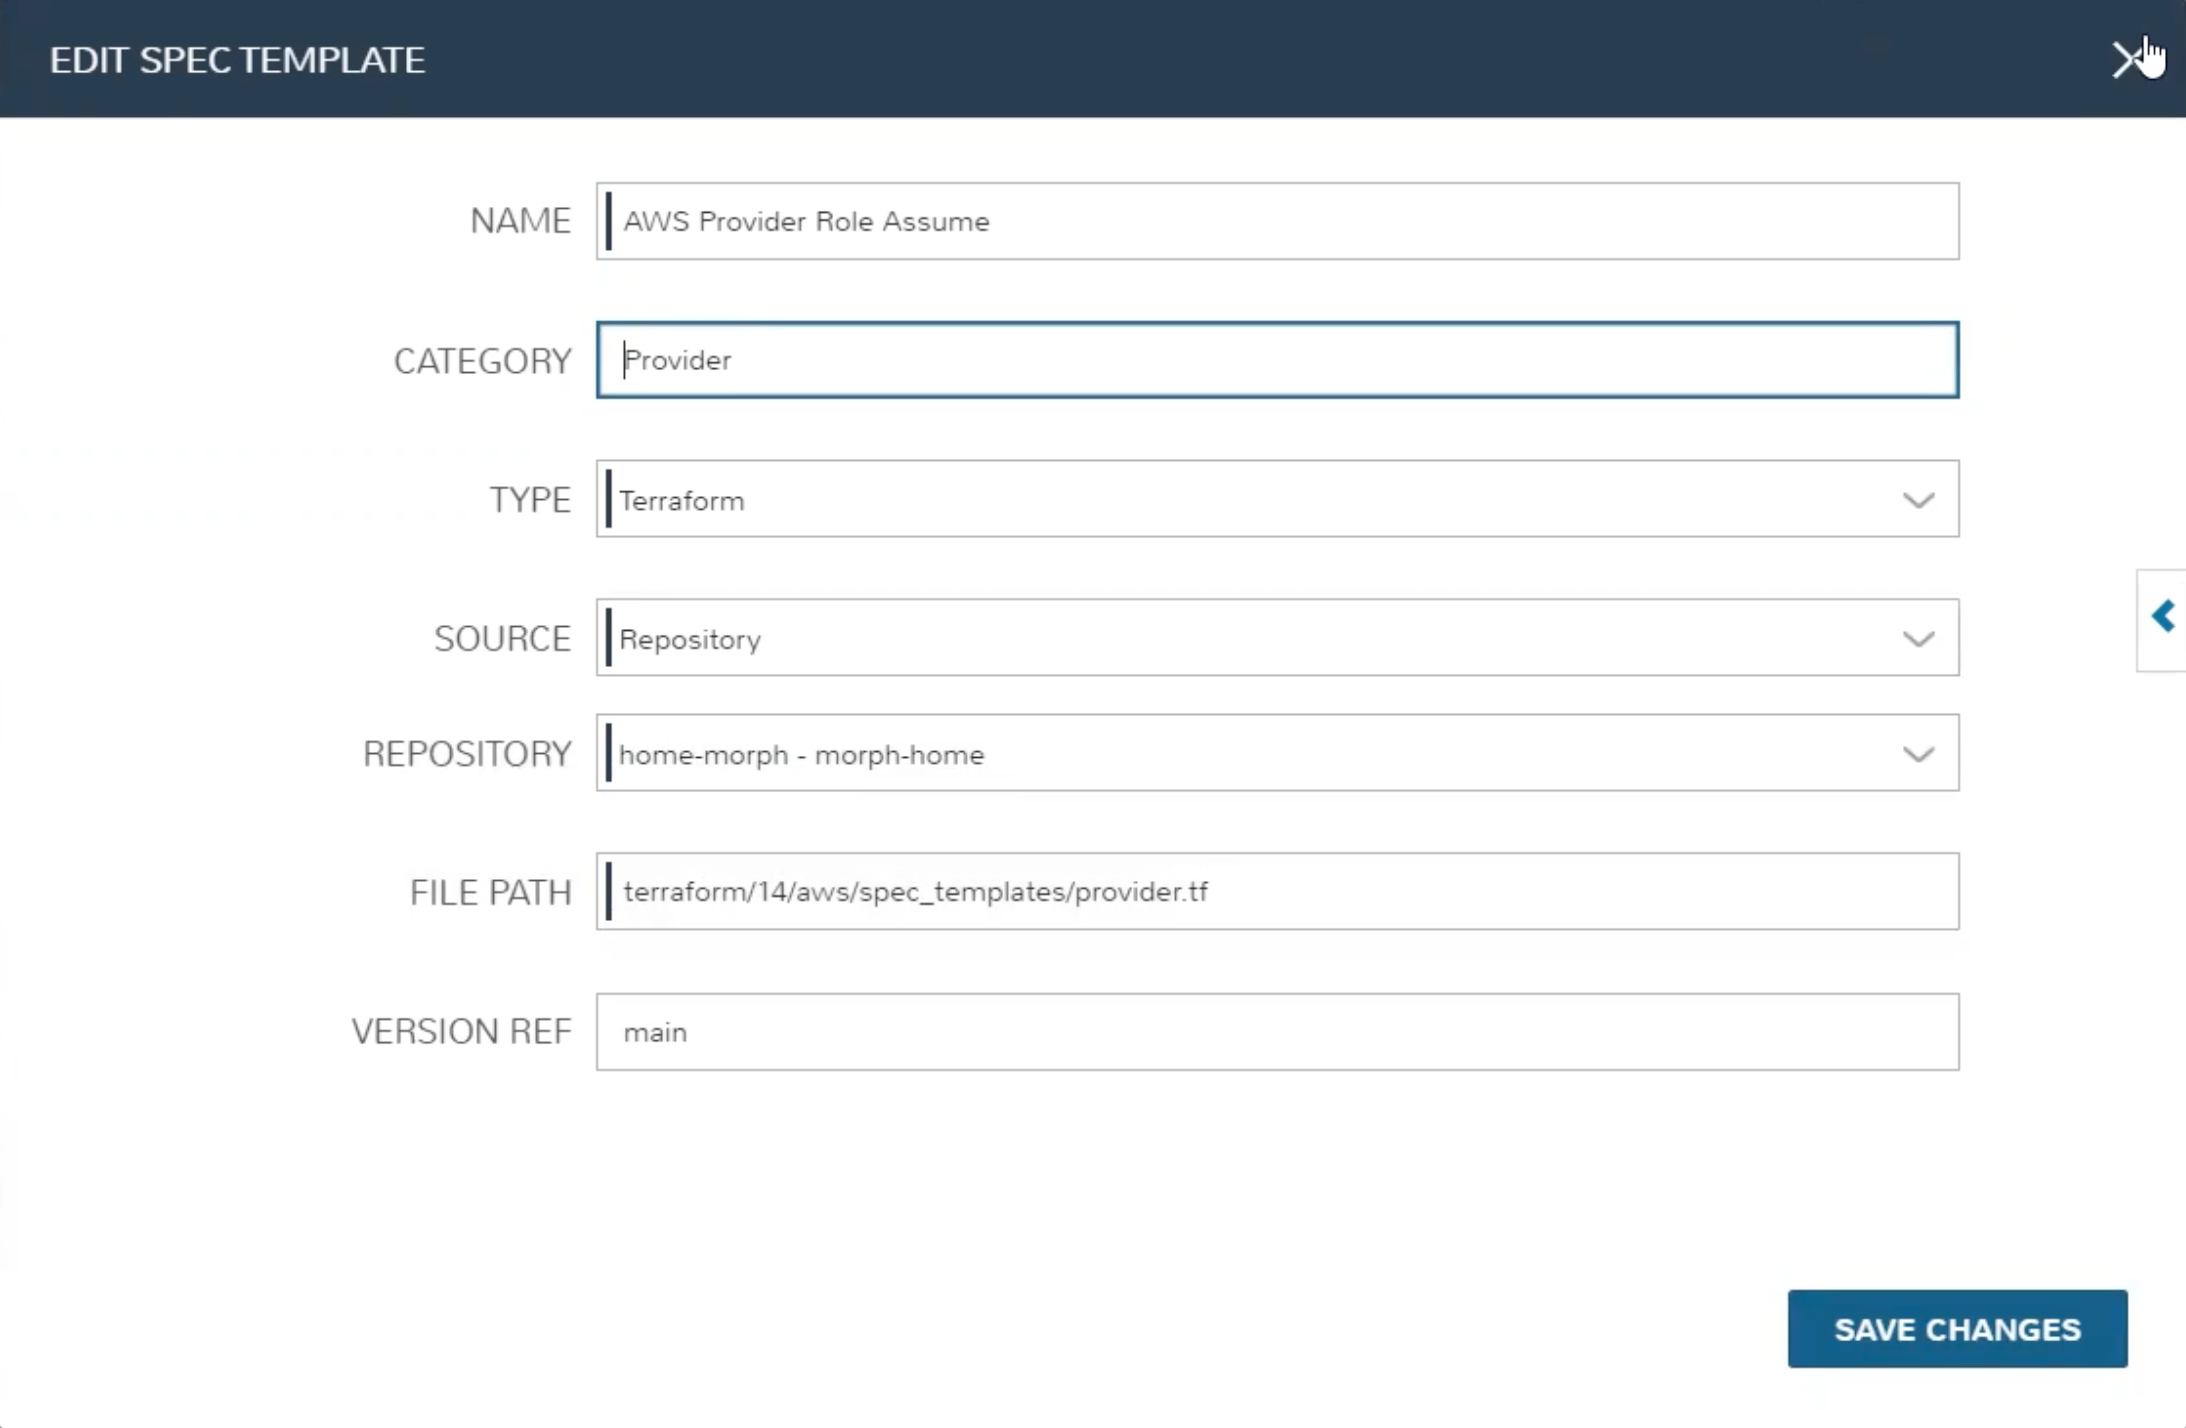
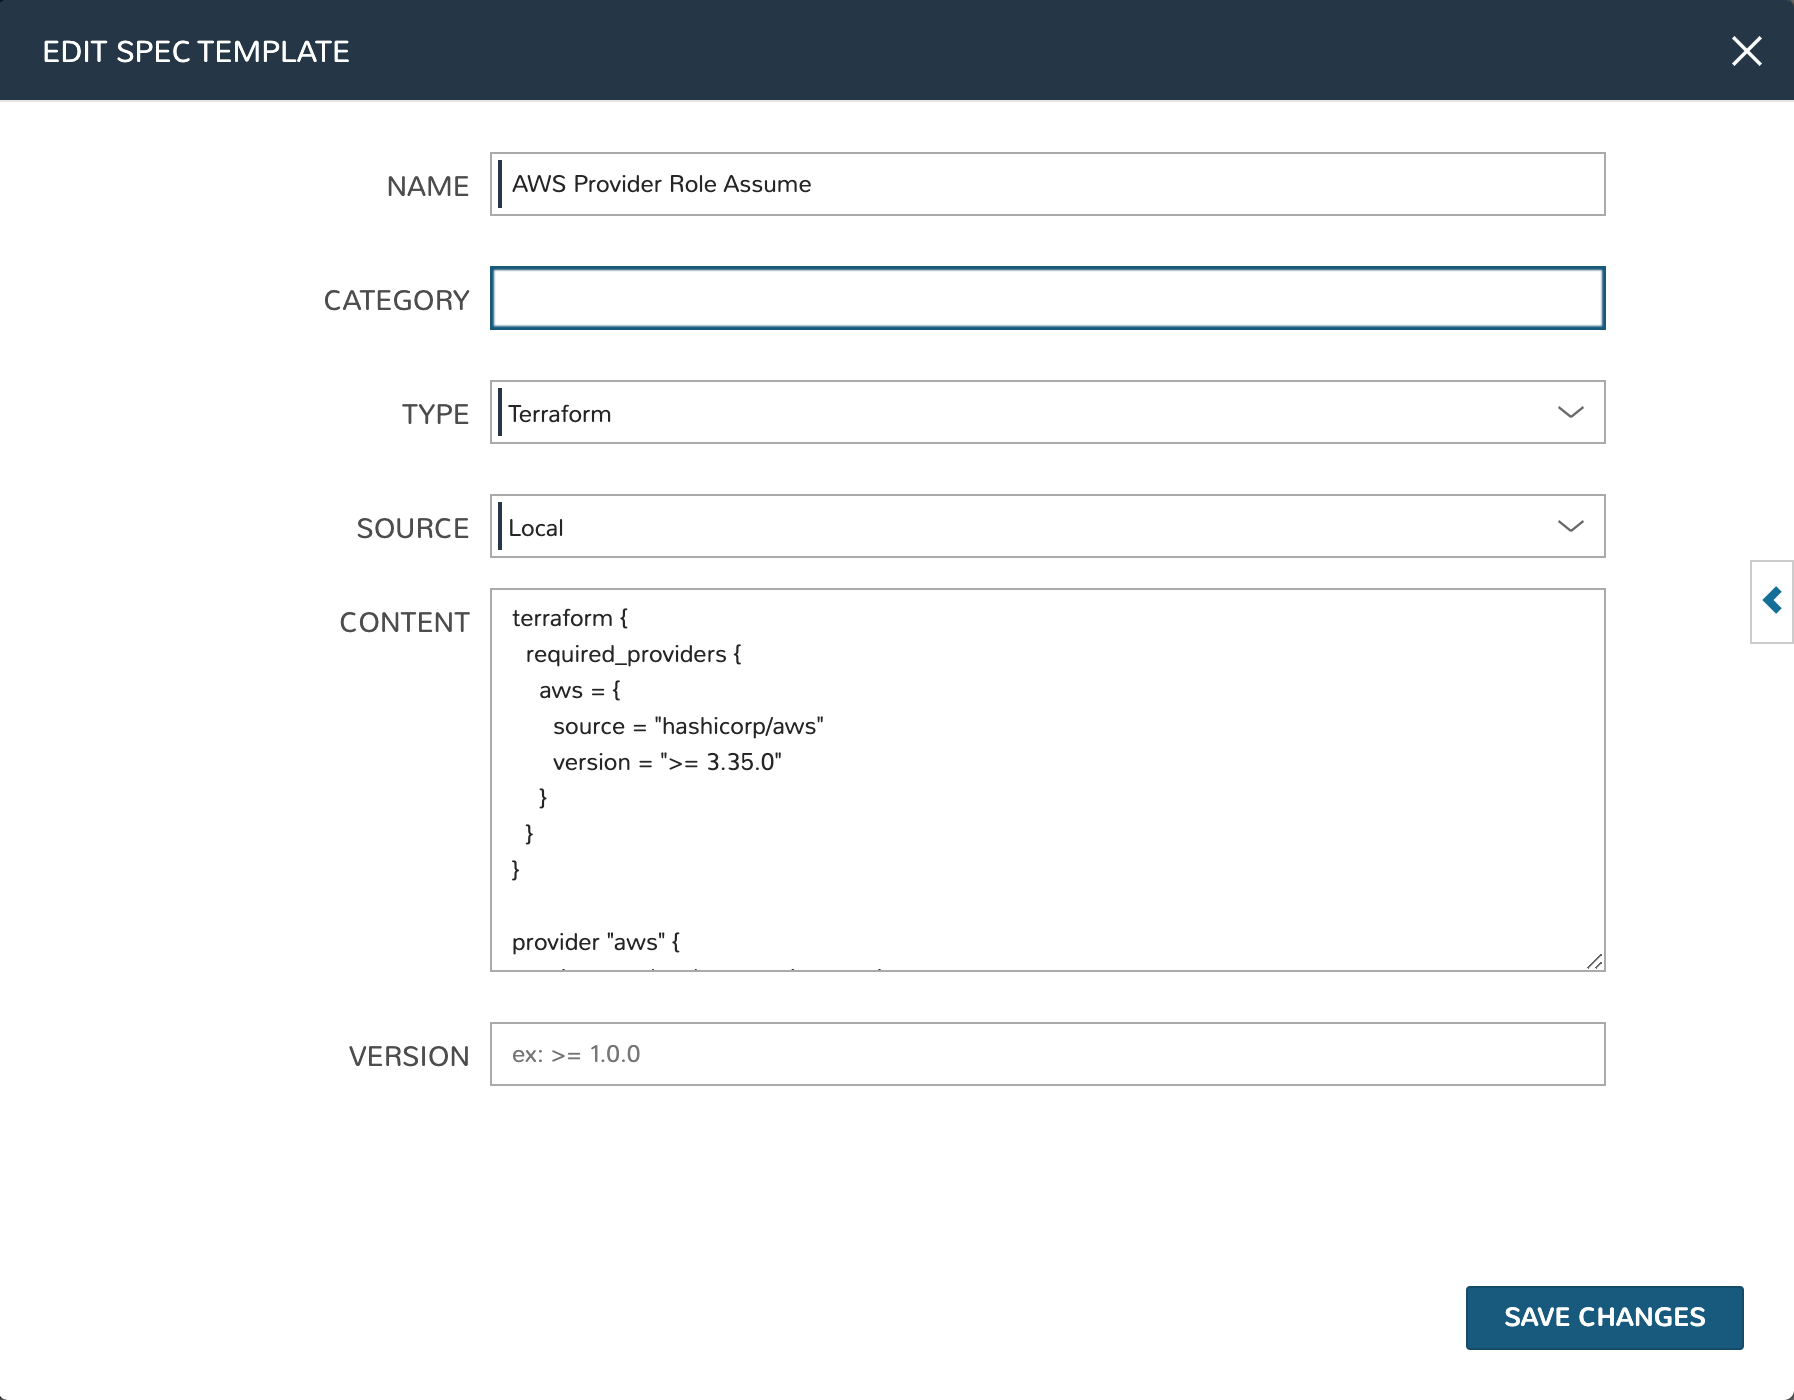
add stuff surrounding terraform version feature (settings, tf inst type guide, spec temps section)

diff --git a/provisioning/library/specTemplates.rst b/provisioning/library/specTemplates.rst
@@ -15,7 +15,7 @@ Spec Templates allow |morpheus| users to leverage several major Infrastructure-a
 
 |morpheus| also allows users to leverage templates pulled from URL sources, online repositories (such as GitHub), or you can write a template locally inside the "NEW SPEC TEMPLATE" modal.
 
-.. NOTE:: To see |morpheus| Spec Templates in action, take a look at an example use case in our `KnowledgeBase <https://support.morpheusdata.com/s/article/How-to-use-Spec-Templates-to-create-a-custom-instance-type?language=en_US>`_ where a CloudFormation Spec Template is used to create a provisionable custom Instance Type in |morpheus|.
+.. TIP:: To see |morpheus| Spec Templates in action, take a look at our guide on `creating custom Instance Types using Terraform <https://docs.morpheusdata.com/en/latest/getting_started/guides/terraform_instances.html>`_ or see our `KnowledgeBase <https://support.morpheusdata.com/s/article/How-to-use-Spec-Templates-to-create-a-custom-instance-type?language=en_US>`_ for another example where a CloudFormation Spec Template is used to create a provisionable custom Instance Type.
 
 Creating a Spec Template
 ^^^^^^^^^^^^^^^^^^^^^^^^
@@ -27,4 +27,5 @@ Creating a Spec Template
   - **NAME**
   - **TYPE:** See the previous section for a complete list of Spec Template types
   - **SOURCE:** Local, Repository, or URL
-  - **CONTENT:** If this is a local Spec Template, supply the template in this field. If the template is supplied through a URL or online repository, the CONTENT field will change to allow the user to point |morpheus| to that resource.
+  - **CONTENT:** If this is a local Spec Template, supply the template in this field. If the template is supplied through a URL or online repository, the CONTENT field will change to allow the user to point |morpheus| to that resource
+  - **VERSION:** (Only displayed on Terraform Spec Templates) Enter a Terraform version number to force a specific version when provisioning your Terraform Instance Type or App, assuming your Terraform Runtime setting (Administration > Settings > Provisioning Tab) is "auto". If Terraform Runtime is set to "manual", |morpheus| will use the version of Terraform installed on the appliance box

diff --git a/getting_started/guides/terraform_instances.rst b/getting_started/guides/terraform_instances.rst
@@ -19,7 +19,9 @@ Spec Templates
 
 Terraform configuration is stored as a Spec Template in |morpheus|. You can store your configuration as one monolithic file for each Instance Type you intend to create or you can create individual Spec Templates for modular pieces which can be reused across multiple Instance Types. When added to the Layout later, we'll be able to include as many Spec Templates as we wish which enables us to reuse smaller modular pieces if desired.
 
-Spec Templates are added in the |morpheus| Library (Provisioning > Library > Spec Templates tab). We can pull in the template from some type of repository, such as through a Github integration, or write new spec directly into the New Spec Template modal. In most cases, the spec will be pre-existing and pulled in from a version-controlled repository so that is what I will do here as well. Click :guilabel:`+ ADD`, complete the fields as I've done in the example below and click :guilabel:`SAVE CHANGES`.
+Spec Templates are added in the |morpheus| Library (Provisioning > Library > Spec Templates tab). We can pull in the template from some type of repository, such as through a Github integration, or write new spec directly into the New Spec Template modal. In most cases, the spec will be pre-existing and pulled in from a version-controlled repository but here I have my Terraform spec entered locally. Click :guilabel:`+ ADD`, complete the fields as I've done in the example below and click :guilabel:`SAVE CHANGES`.
+
+In the VERSION field at the bottom of the TF Spec Template modal, enter a Terraform version number to force that version to be used. This version is only honored if the Terraform Runtime setting (Administration > Settings > Provisioning Tab) is set to "auto". When "manual" is selected as the Terraform Runtime setting, |morpheus| will simply use the version installed on the appliance box.
 
 .. image:: /images/integration_guides/terr_inst_guide/1newSpec.png
 

diff --git a/administration/settings/provisioning.rst b/administration/settings/provisioning.rst
@@ -57,3 +57,8 @@ Determines the Default Blueprint Type selected in new App Wizard
  - Terraform
  - Kubernetes Spec
  - Helm Chart
+
+Terraform Settings
+^^^^^^^^^^^^^^^^^^
+
+  * **Terraform Runtime:** Select "auto" or "manual". When selecting "auto", |morpheus| will automatically download and use the Terraform version indicated in the VERSION field on the Spec Templates that make up a Terraform Instance type or Blueprint. When selecting "manual", |morpheus| will use the version of Terraform `installed on your appliance <https://docs.morpheusdata.com/en/latest/integration_guides/Automation/terraform.html?#terraform-installation>`_.
